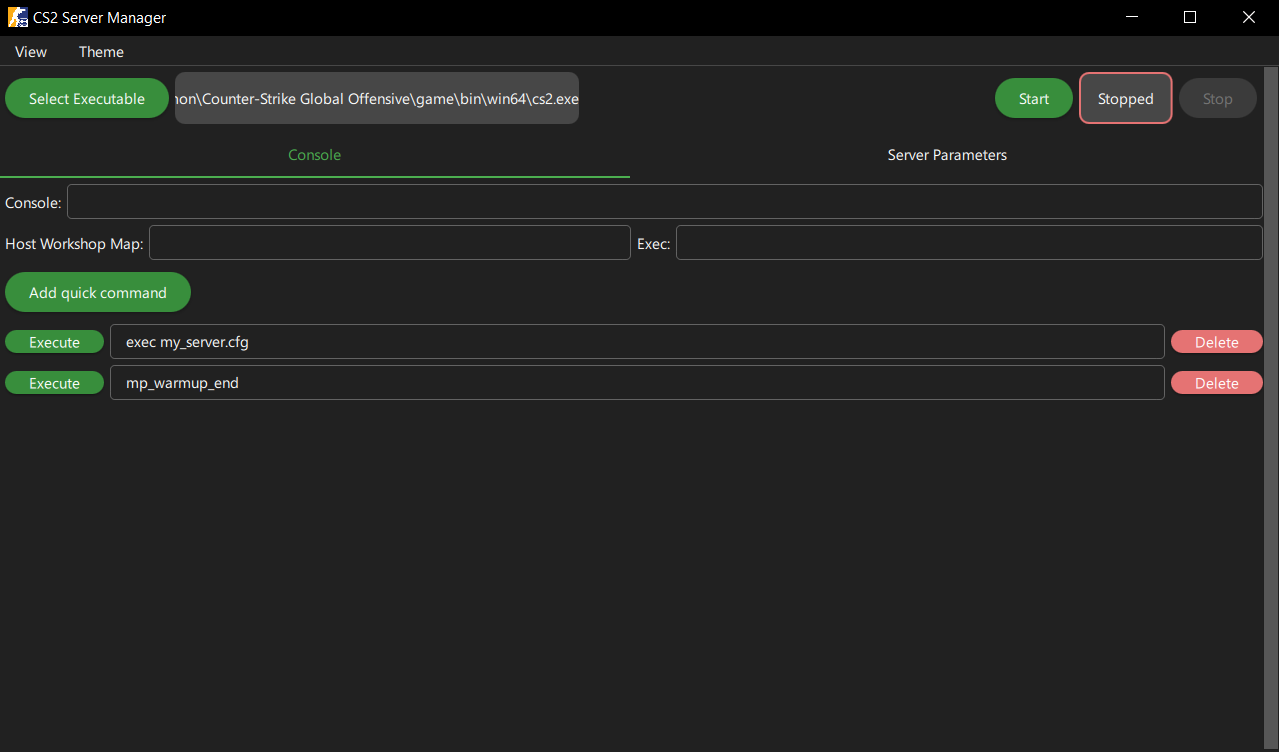
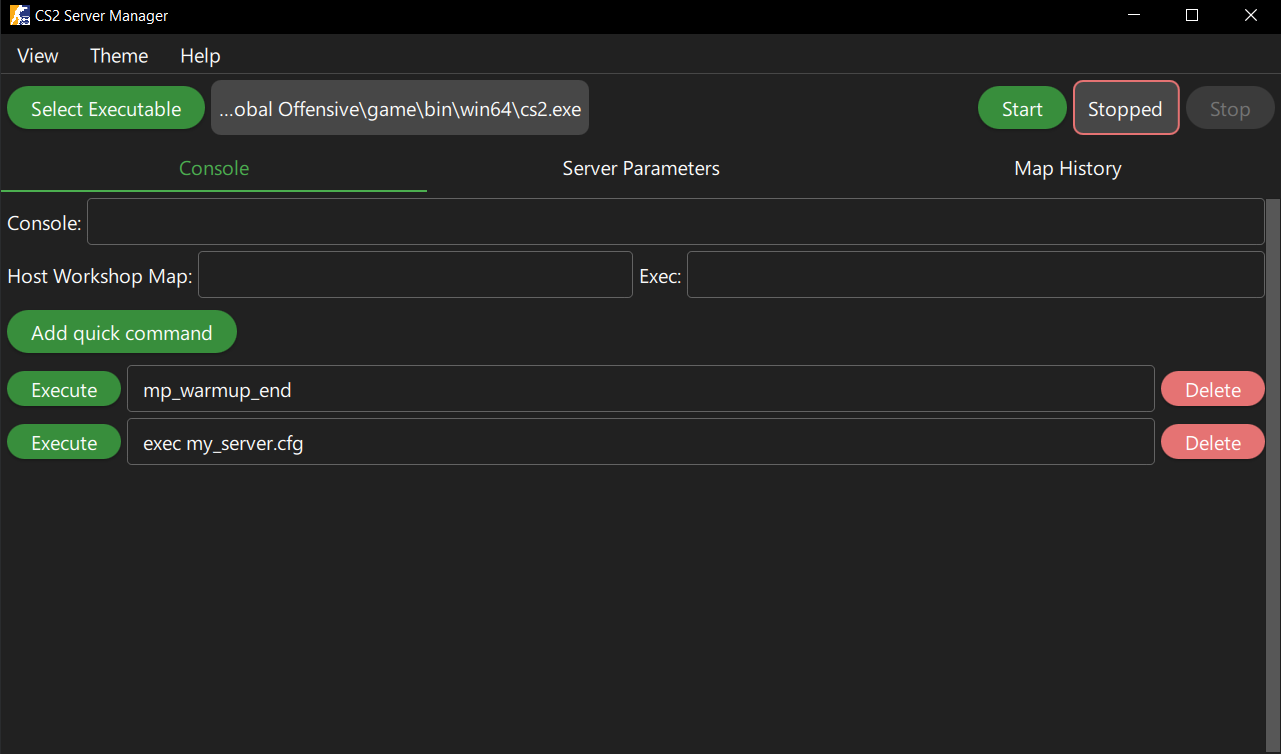
1. Update README to include new pages and update screenshots of old ones. 2. Add some badges and info about dependencies.

Changed region(s): [[0.0, 0.0918, 1.0, 0.6117], [0.0, 0.0, 0.4574, 0.2141], [0.4879, 0.3059, 0.5489, 0.3976]]

diff --git a/README.md b/README.md
@@ -1,14 +1,14 @@
 # CS2 Server Manager
 
-![Qt](https://img.shields.io/badge/Qt-%23217346.svg?style=for-the-badge&logo=Qt&logoColor=white) ![C++](https://img.shields.io/badge/c++-%2300599C.svg?style=for-the-badge&logo=c%2B%2B&logoColor=white)
+![Qt](https://img.shields.io/badge/Qt-%23217346.svg?style=for-the-badge&logo=Qt&logoColor=white) ![C++](https://img.shields.io/badge/c++-%2300599C.svg?style=for-the-badge&logo=c%2B%2B&logoColor=white) ![Windows](https://custom-icon-badges.demolab.com/badge/Windows-0078D6?logo=windows11&logoColor=white)
 
-This is a very simple app I created for managing my local server to play with friends because typing commands into server cmd was not really convenient. The app is mostly intended to be used with local server on the same machine, but you also can connect to a remote server via RCON (Stopping and starting will not work).
+This is a very simple app I've created for managing my local server to play with friends because typing commands into server cmd was not really convenient. The app is mostly intended to be used with local server on the same machine, but you also can connect to a remote server via RCON (Stopping and starting will not work).
 
 Written in C++ and QML as an exercise.
 
-## Interface
+## UI
 
-![Console Page](docs/consolePage.png) ![Console Page Light](docs/consolePageLight.png) ![Server Params Page](docs/serverParametersPage.png)
+![Console Page](docs/consolePage.png) ![Console Page Light](docs/consolePageLight.png) ![Server Params Page](docs/serverParametersPage.png) ![Map History Page](docs/mapHistoryPage.png) ![Log Window](docs/logWindow.png)
 
 ## Features
 
@@ -25,6 +25,8 @@ Written in C++ and QML as an exercise.
 ✅ Scaling on different resolutions, users also change the scale from app settings
 
 ✅ Light and dark themes
+
+✅ History of the downloaded maps
 
 ⬜ Redirect server cmd output into a panel inside the application and get rid of standalone window if possible
 
@@ -52,8 +54,9 @@ Open the project in Qt Creator and hit build.
 Versions of dependencies used, probably will work on newer versions as well:
 
 - QtCreator 13.0.0
-- Qt 6.7.0 (MSVC 2019)
+- Qt 6.7.0 (MSVC 2019) and Qt 6.8.1 (MSVC 2022)
 - [rconpp](https://github.com/Jaskowicz1/rconpp) at [d77993b](https://github.com/Jaskowicz1/rconpp/commit/d77993b1e8993701dbf6b2974b41045a915c7b42)
+- Conan 2 and dependencies retrieved using it, see conanfile.txt for more details
 - CMake 3.29.2
 
 ## Deploy
